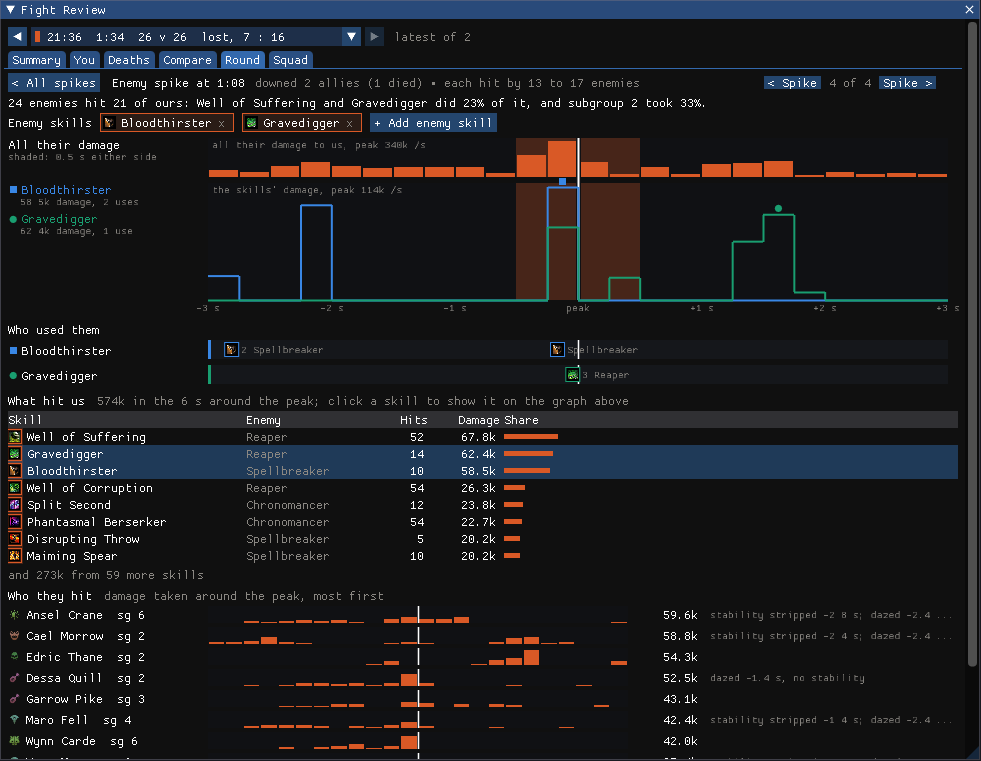
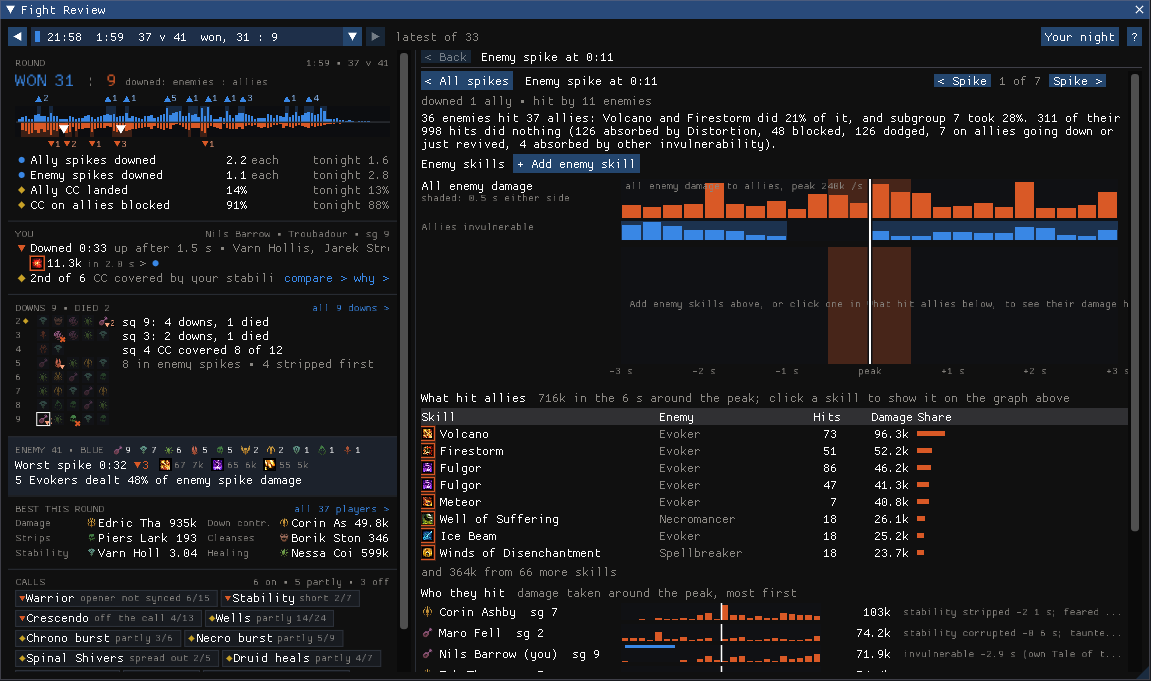
updated readme images

diff --git a/README.md b/README.md
@@ -5,24 +5,32 @@ down and why, how the spikes went on both sides, and how you did on your build a
 
 Everything comes from the saved logs, after the fight. Nothing is shown while you fight.
 
-![Summary](docs/images/summary.png)
+![The round's debrief at the left, your down step by step at the right](docs/images/overview.png)
 
 ## What it shows
 
-- **Summary**: the round at a glance, and one thing to work on next round.
-- **You**: your build's main jobs against the best player on the same spec, and what to fix first.
-- **Deaths**: every down in the round, what led to it, and whether a revive came.
-- **Round**: both sides' damage over the round, every spike, and a breakdown of each spike.
-- **Squad**: each subgroup and player: boons, stability, healing, cleanses, downs.
-- **Compare**: you next to another player, skill by skill.
+The round's debrief stays at the left; whatever you click in it opens at the right, and Back returns to what was open
+before.
 
-Most tabs can show this round or the whole evening. Ctrl+Shift+F opens the window; it is also in the Nexus quick
-access menu.
+- **Round**: the result, both sides' spikes on a strip, and how the round went against the rest of your night.
+- **You**: whether you went down and why, and your build's main jobs against the best player on your spec.
+- **Downs**: the squad by subgroup; click anyone for their down step by step, and whether a revive came.
+- **Enemy** and **Best this round**: the enemy's classes and worst spike, and the best of the squad in each job.
+- **Calls**: each key skill your squad used (wells, bursts, Tale of the August Queen, stability, revives...), judged
+  by its own rule, with who and when.
+- Behind them: both sides' damage over the round with every spike broken down, each subgroup and player, and you next
+  to anyone else, skill by skill.
+
+Many views can show this round or the whole evening. Ctrl+Shift+F opens the window; it is also in the Nexus quick
+access menu. A small window stays up while you play with the last round in a few lines; right-click it to pick the
+lines or its style, or to hide it (the addon's options in Nexus bring it back):
+
+![The small window](docs/images/small-window.png)
 
 | | |
 |---|---|
-| ![You](docs/images/you.png) | ![Deaths](docs/images/deaths.png) |
-| ![Round](docs/images/round.png) | ![Enemy spike](docs/images/enemy-spike.png) |
+| ![You against the best on your spec](docs/images/you.png) | ![The round: both sides' damage and every spike](docs/images/round.png) |
+| ![Calls: stability per subgroup at each enemy spike](docs/images/calls.png) | ![An enemy spike broken down](docs/images/enemy-spike.png) |
 
 ## Install
 
@@ -49,47 +57,53 @@ watching. It keeps its settings in `<GW2>\addons\FightReview\`.
 ## FAQ
 
 **What should I look at first after a round?**
-The Summary tab. Its last card names one thing to work on next round; the buttons on each card open the tab with the
-details.
+The debrief at the left, top to bottom: the result and the three reasons under it, then your own line, the downs and
+the calls. Hover anything for the story behind it, click it for the details; "?" at the top right explains each part.
 
-**What should I focus on in the You tab?**
-The three cards at the top: your build's main number and the two jobs where you were furthest behind the best player
-on your spec. Under them, "Fix first" lists the few things that made the most difference, each with you and them side
-by side; click one to see why. The short dark tick under a card's bar is your usual for the evening, so you can tell a bad round
-from a bad habit.
+**What should I focus on in You?**
+Click your line in the debrief ("why >"). The three cards at the top: your build's main number and the two jobs where
+you were furthest behind the best player on your spec. Under them, "Fix first" lists the few things that made the most
+difference, each with you and them side by side; click one to see why. The short dark tick under a card's bar is your
+usual for the evening, so you can tell a bad round from a bad habit.
 
 **Who am I compared with?**
 The best player on the same spec and build in that round (or that evening). If nobody else played your spec that
 round, your own best round of the evening on it. "Change" picks someone else.
 
 **How do I find out how someone died?**
-Open Deaths and pick the down on the left (they are grouped by the enemy spike they fell in). The tiles under the
-first line read left to right: what wore them down, their stability, the last CC, the burst, and whether they got up.
-The clock below shows the 6 s before the down: CC, boons they lost and stability they got on lanes at the top, their
-health and the damage they took underneath. Hover any moment to see what hit them then.
+Click them in the debrief's downs grid (a row per subgroup, a triangle for each down); Earlier and Later step through
+their downs, and "all downs >" lists every down of the round by enemy spike. The tiles under the first line read left
+to right: what wore them down, their stability, the last CC, the burst, and whether they got up. The clock below shows
+the 6 s before the down: CC, boons they lost and stability they got on lanes at the top, their health and the damage
+they took underneath. Hover any moment to see what hit them then.
 
-**What do I get from the Compare tab?**
-Pick two players and a measure (damage, healing, stability and so on). The first line says who did more and which
-skills made the difference. In the skill list, each bar starts at the middle line: to the left where you got more
-from a skill, to the right where they did. The columns after it say when each of you cast it and why the numbers
-differ (fewer casts, less per cast). The graph at the bottom shows both of you over the round, with the spikes behind.
+**What do I get from Compare?**
+Open it with "compare >" on your line, or click a name in Best this round or the squad list. Pick two players and a
+measure (damage, healing, stability and so on). The first line says who did more and which skills made the difference.
+In the skill list, each bar starts at the middle line: to the left where you got more from a skill, to the right where
+they did. The columns after it say when each of you cast it and why the numbers differ (fewer casts, less per cast).
+The graph at the bottom shows both of you over the round, with the spikes behind.
 
 **How do I read the round's time line?**
-Our damage goes up, theirs down, a bar per second. Blue bands are our spikes, orange ones theirs, with a triangle
-and the number of downs in each. The thin lanes marked "Invulnerable" show when players of each side were
-invulnerable; hover ours to see who used it. Mark a skill to put an icon on the line for every use, and click its
-name for a row per player.
+Click the result line in the debrief. Ally damage goes up, enemy damage down, a bar per second. Blue bands are ally
+spikes, orange ones enemy spikes, with a triangle and the number of downs in each; hover a spike for who went down and
+both sides' top skills, click it to break it down. The lane above shows when enemies were invulnerable; the lane under
+it shows when allies were (Tale of the August Queen, distortions), with bars for the enemy hits it absorbed. Hover a
+lane's name for what it shows. Mark a skill to put an icon on the line for every use, and click its name for a row
+per player.
 
 **How do I use a spike breakdown?**
-"Break down >" on any spike in the list. The top graph is all of that side's damage around the peak; pick skills (or
-click one in the list under it) to see when they landed. For our spikes, the players at the bottom show whose damage
-came on time and why someone's didn't. For enemy spikes, "Who they hit" shows who took the damage, and whether they
-had stability, were crowd controlled or were invulnerable at the time.
+Click a spike on the debrief's strip or the round's time line, or "Break down >" in the list. The top graph is all of
+that side's damage around the peak; pick skills (or click one in the list under it) to see when they landed. For ally
+spikes, the players at the bottom show whose damage came on time and why someone's didn't. For enemy spikes, "Who
+they hit" shows who took the damage, and whether they had stability, were crowd controlled or were invulnerable at the
+time.
 
 **How is a spike found?**
-A spike is a second where one side's damage to the other is the highest within 2 s either side, and at least 1.4
-times that side's usual damage per second and half its highest. Downs from 3 s before a spike's peak to 4 s after
-count for that spike.
+A spike is a run of seconds where one side's damage to the other stays at least 1.4 times that side's usual damage
+per second and half its highest; a one-second dip that stays above the usual doesn't end it. Its peak is its highest
+second. A long push is one spike ("0:02-0:14" in the list). Downs from 3 s before a spike to 4 s after it count for
+that spike.
 
 **How is stability judged?**
 - CC covered: of the CC that hit your subgroup, how often you had given stability that was still running (TopStats'
@@ -99,7 +113,8 @@ count for that spike.
   lower is better, but stacking before a push can be on purpose).
 
 **Can I look at the whole evening?**
-Yes: "This round / Tonight" at the top right of most tabs. The arrows and the list at the top pick another round.
+Yes: "Your night" at the top right shows the fixes that keep coming back, and "This round / Tonight" switches You,
+Compare and the squad view. The arrows and the list at the top pick another round.
 
 ## Built on
 
